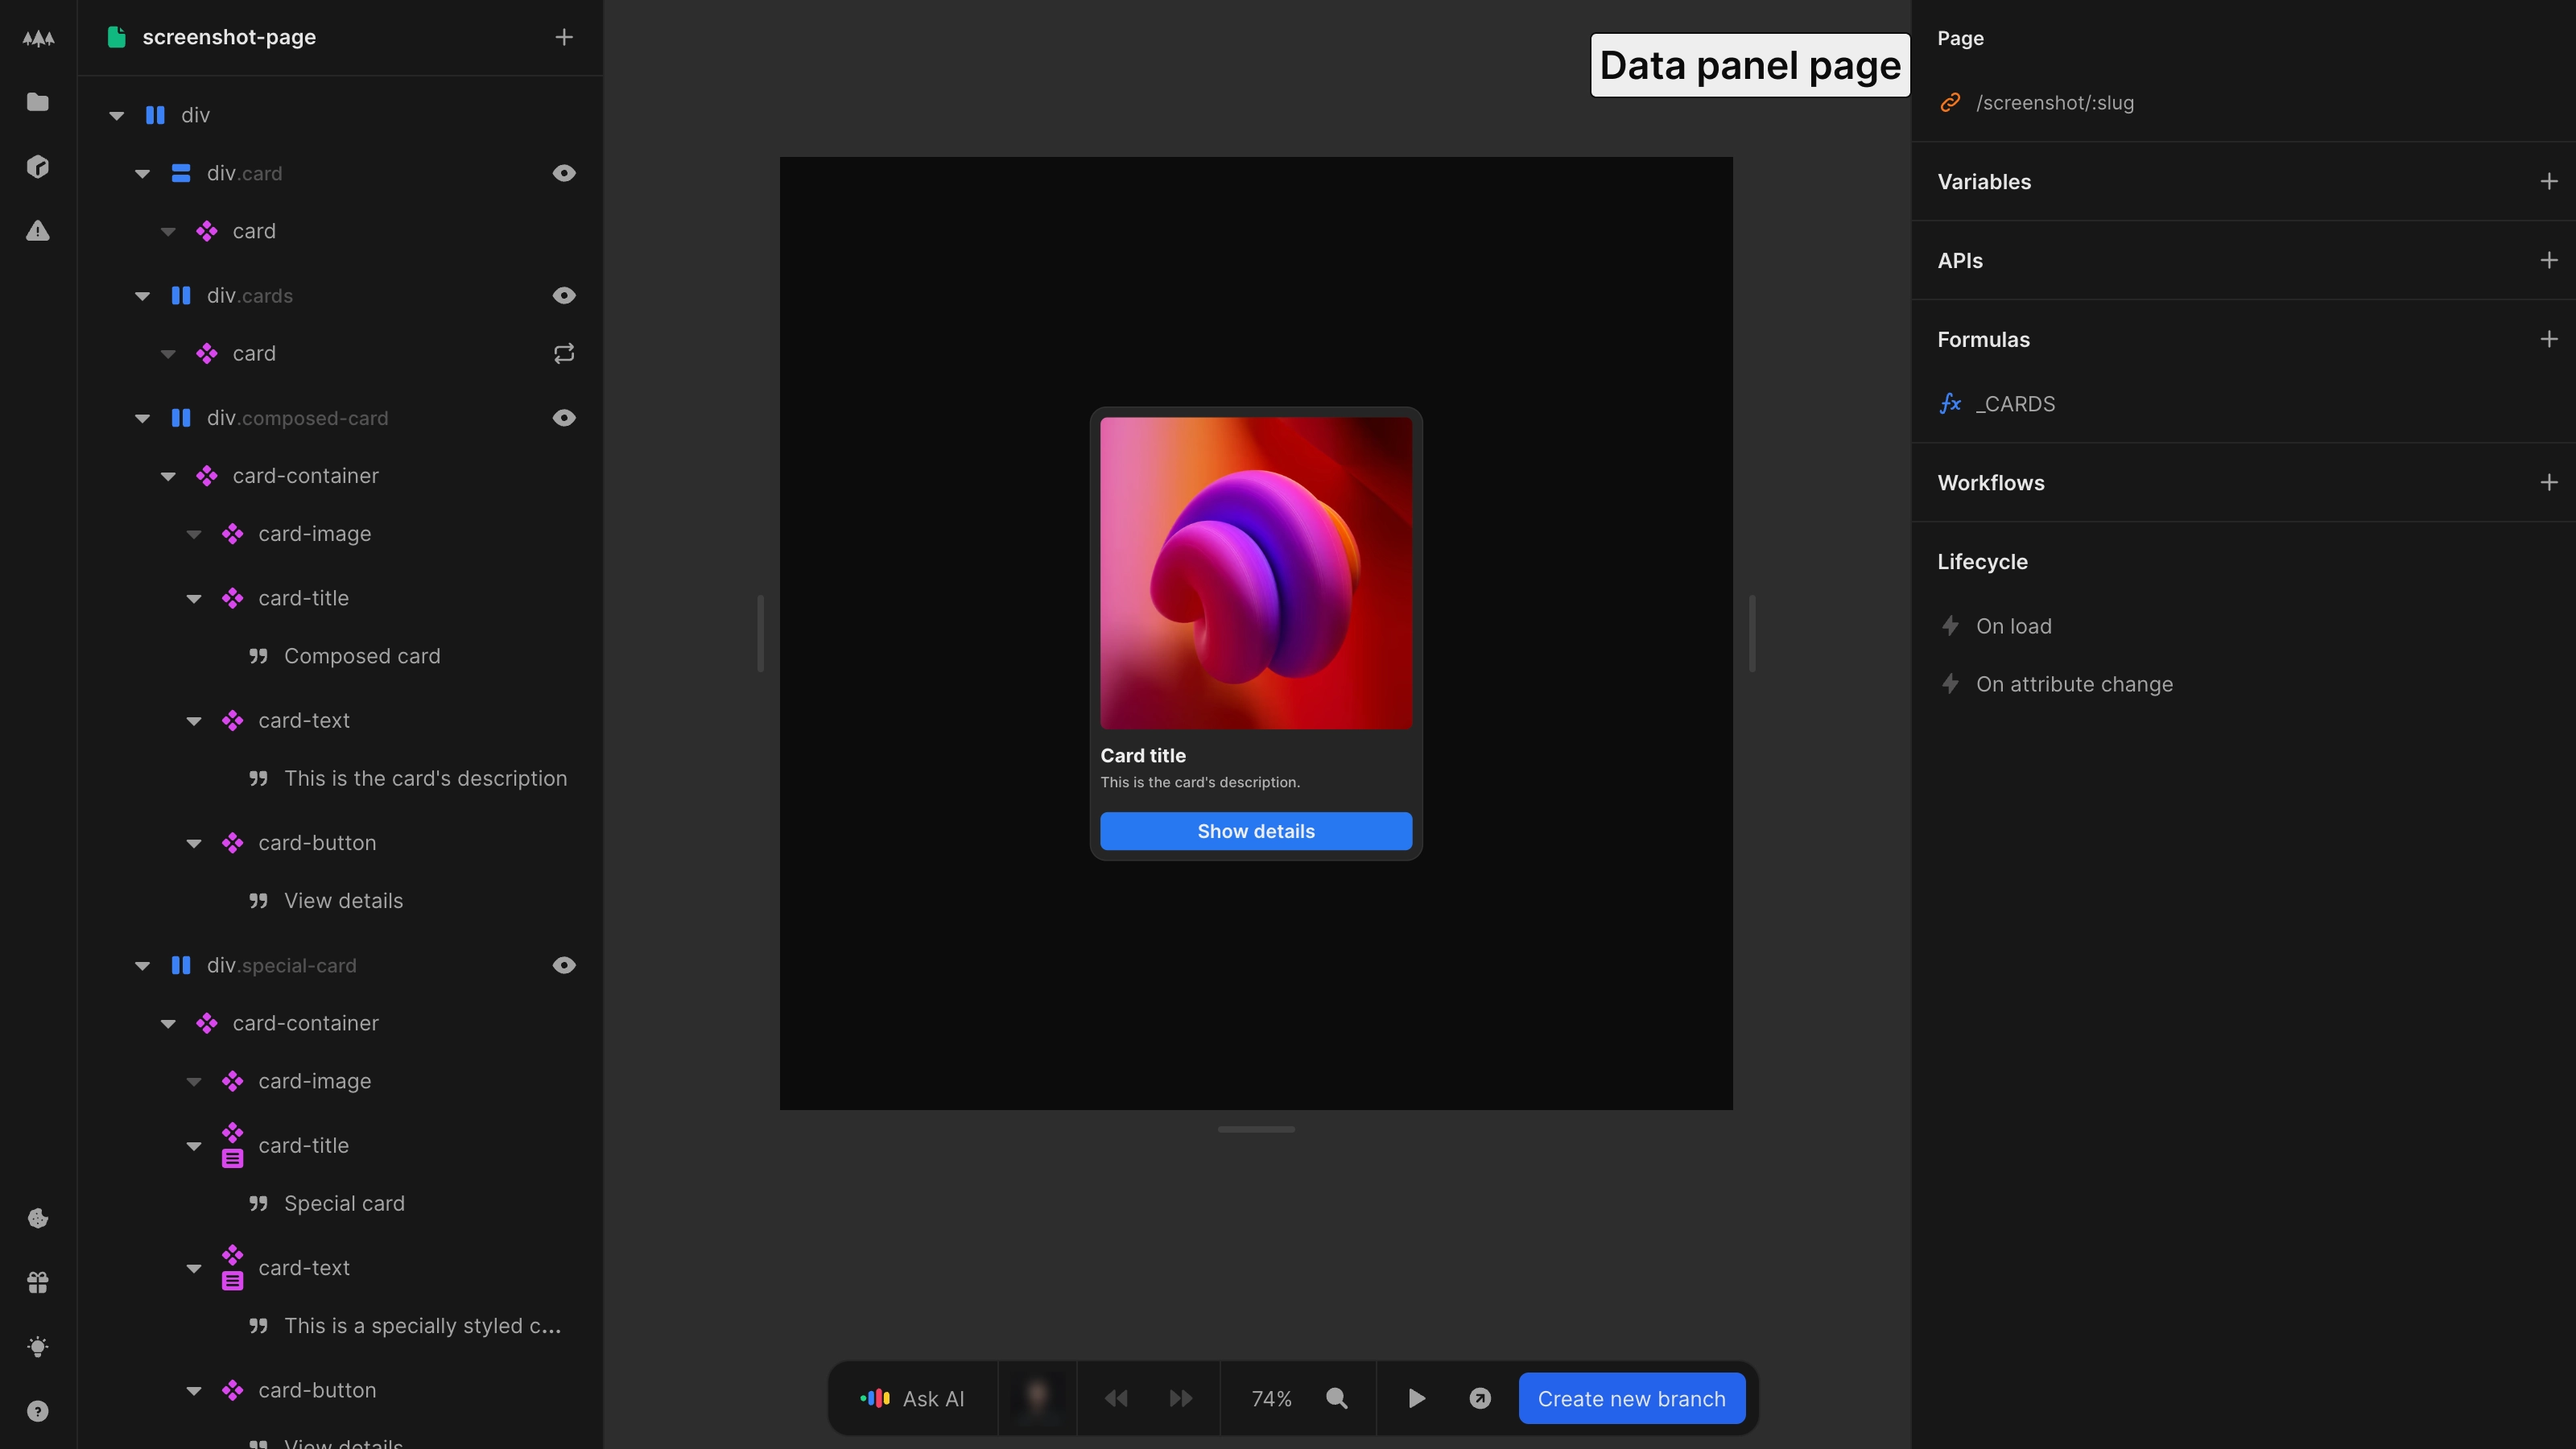
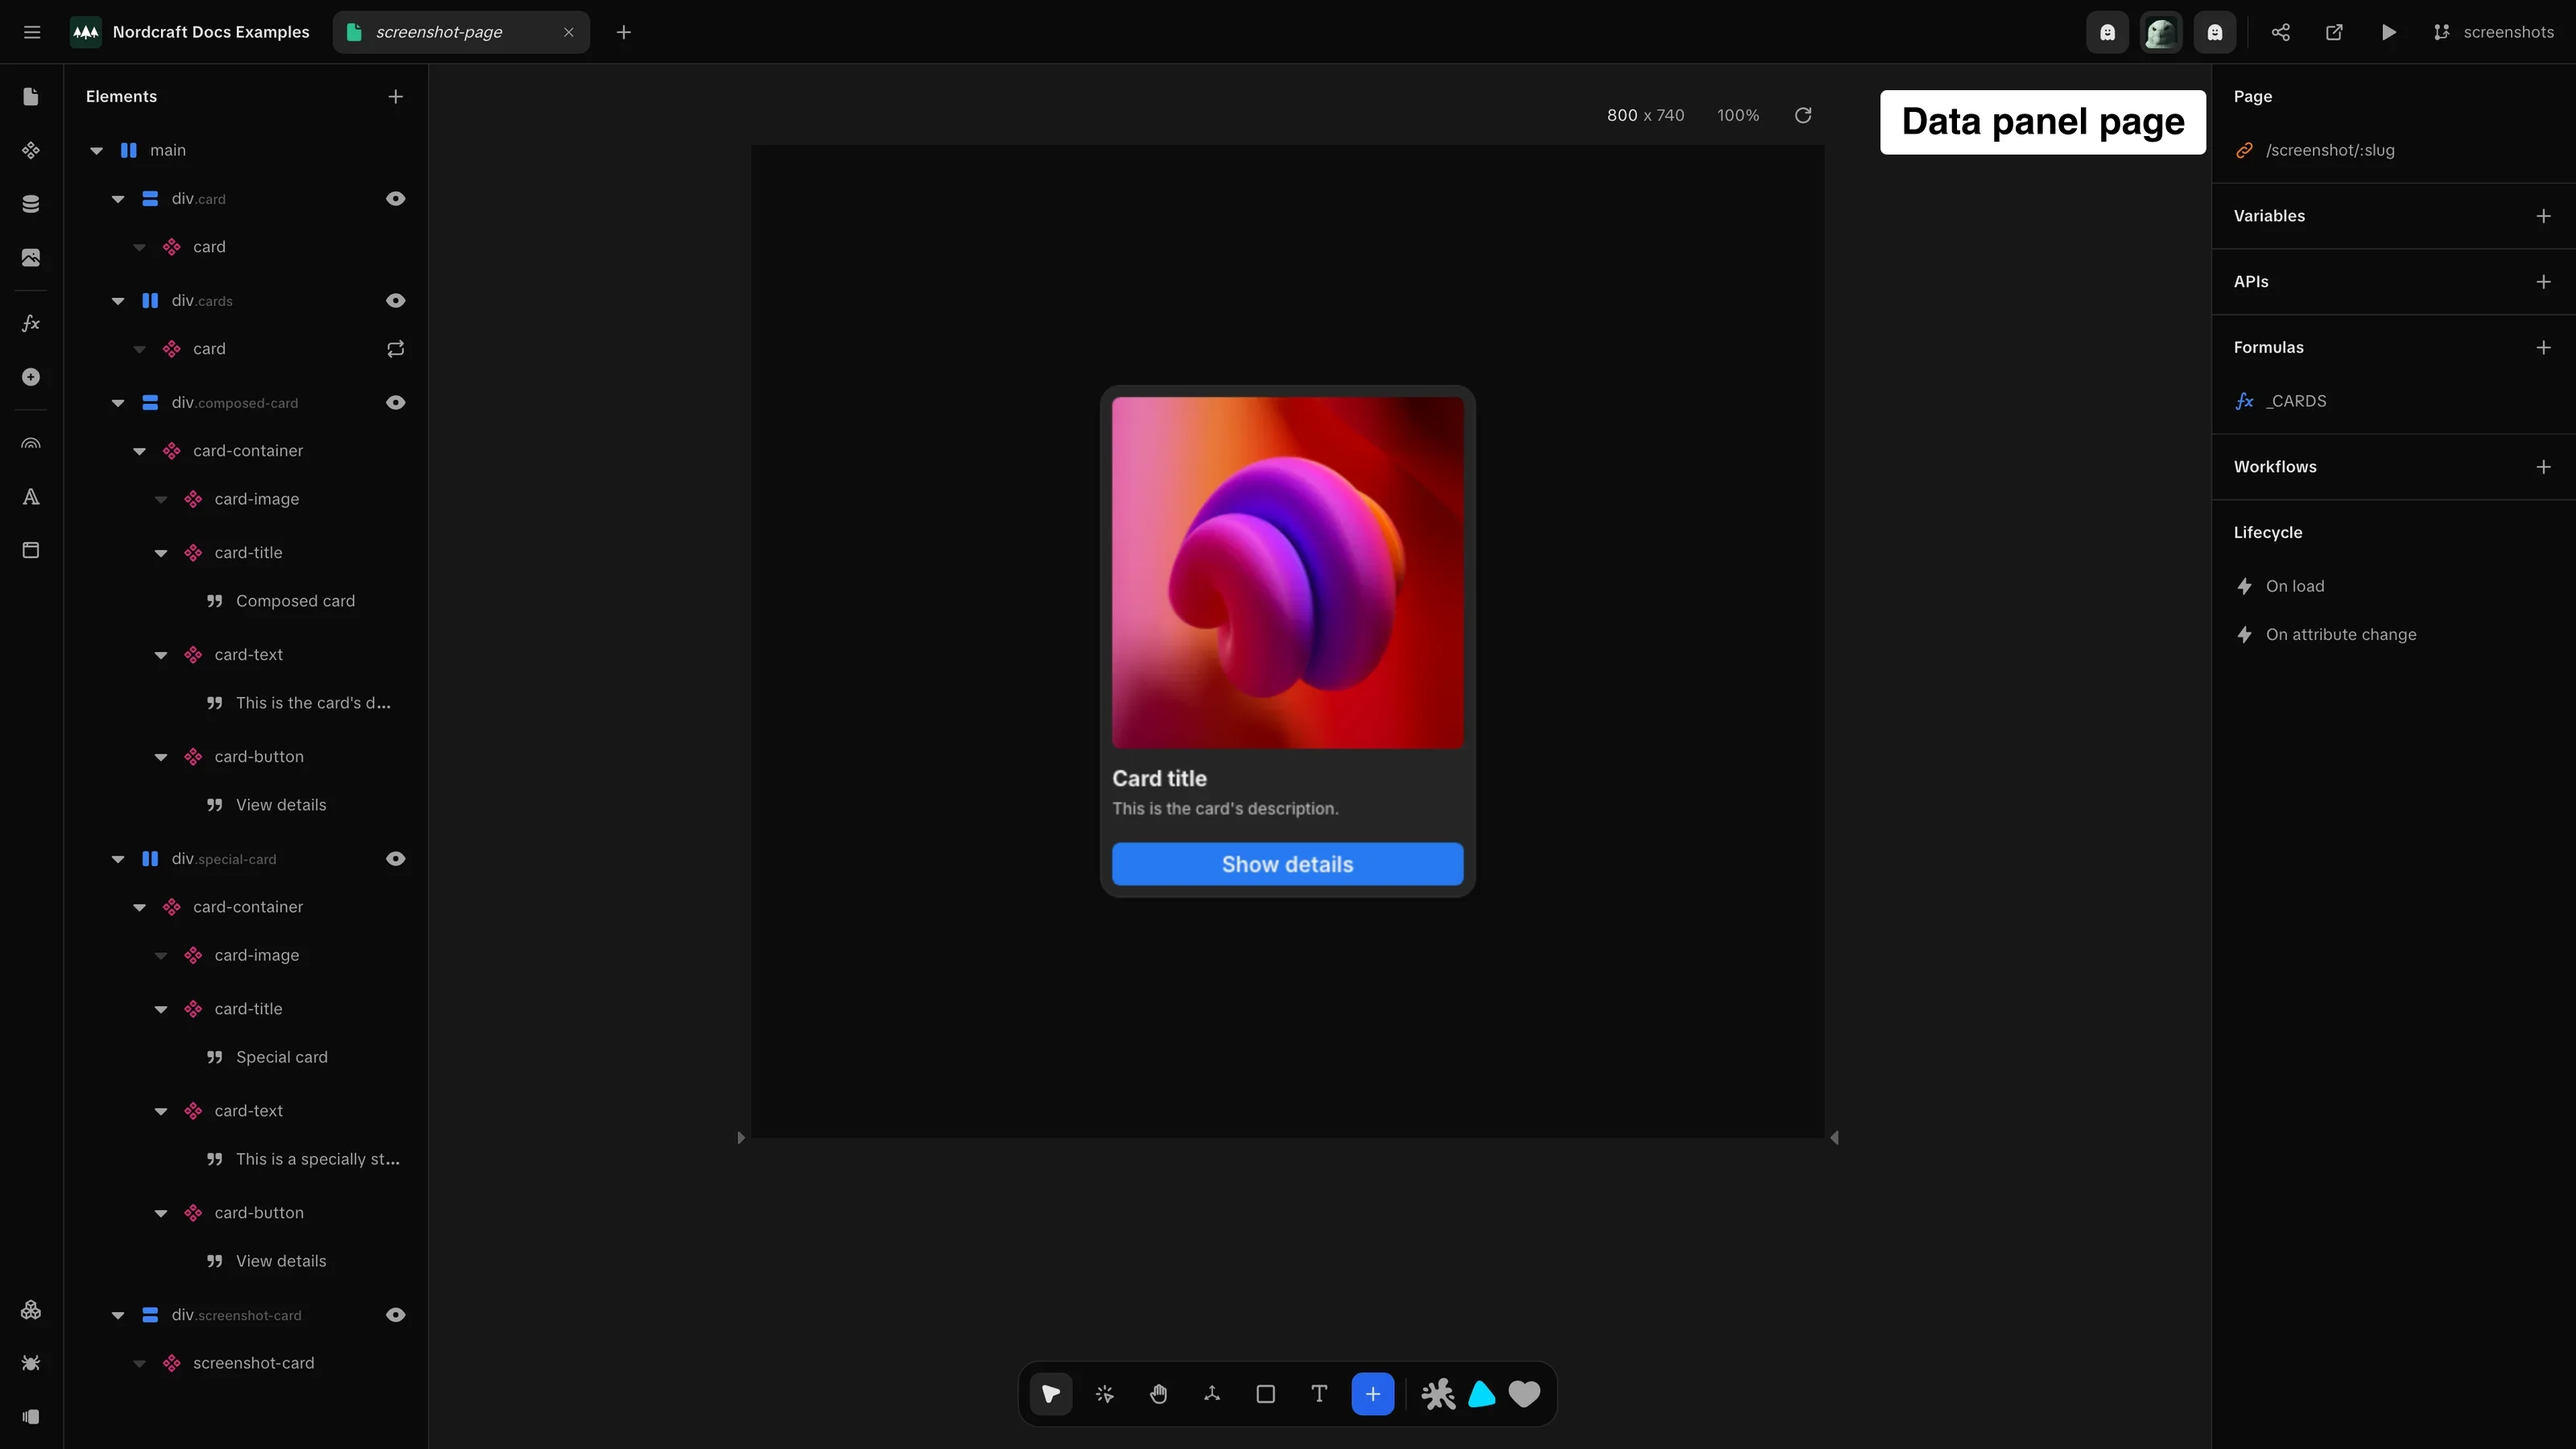
data panel page

diff --git a/docs/the-editor/data-panel/data-panel-page.screenshot.ts b/docs/the-editor/data-panel/data-panel-page.screenshot.ts
@@ -1,0 +1,18 @@
+import { defineScreenshot } from '@/scripts/capture-screenshots'
+import type { Page } from 'playwright'
+
+// Placeholder script for data-panel-page.webp
+export default defineScreenshot({
+  path: '/projects/docs_examples/branches/screenshots/components/screenshot-page?mode=design&canvas-tool=select&canvas-width=800&rightpanel=attributes',
+  setup: async (page: Page) => {
+    await page.waitForTimeout(500)
+  },
+  annotations: [
+    {
+      type: 'text',
+      x: 584,
+      y: 28,
+      text: 'Data panel page '
+    }
+  ],
+})
